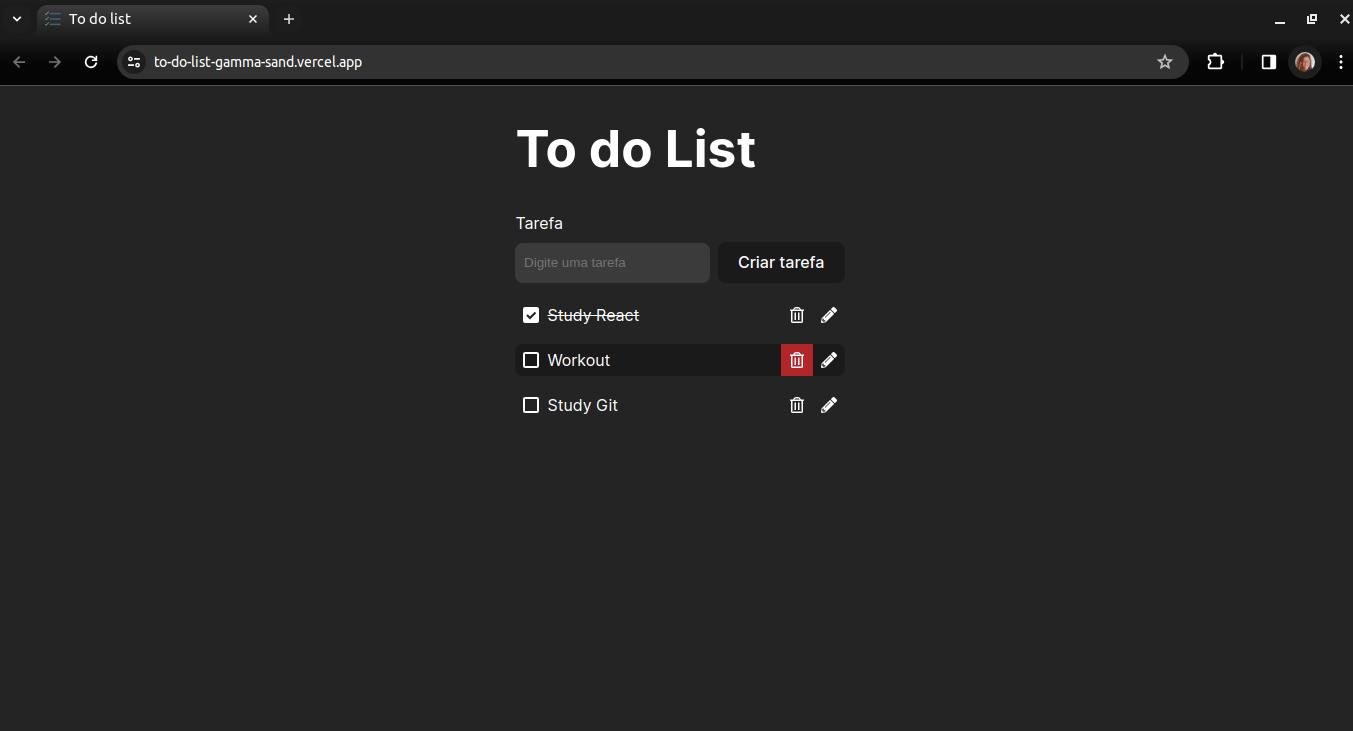
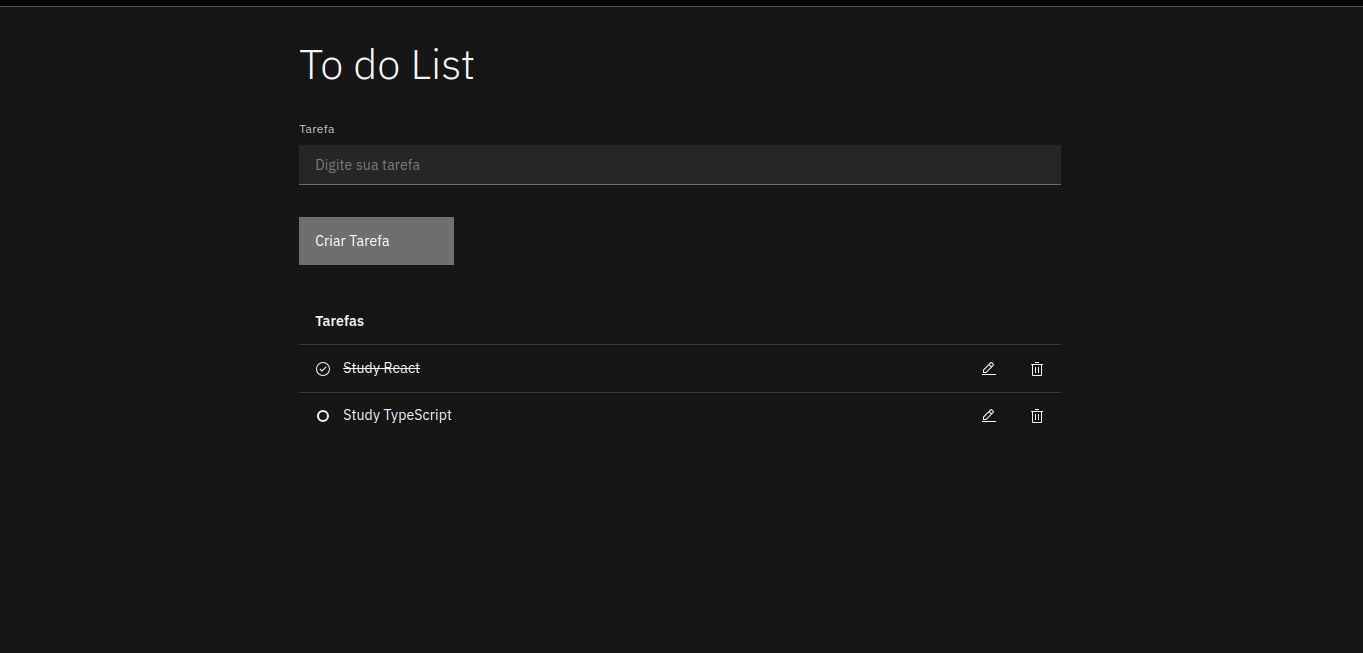
:books: Updated README

diff --git a/README.md b/README.md
@@ -19,6 +19,7 @@ Working on this project allowed me to:
   - useContext, 
   - useForm
 - Create React components
+- Implement Carbon Design System
 
 ## Skills
 * TypeScript
@@ -28,7 +29,7 @@ Working on this project allowed me to:
 
 ### Mobile
 <div align="center">
-  <img src="./docs/mobile-screenshot.jpeg" alt="Screenshot layout mobile" width="300">
+  <img src="./docs/mobile-screenshot.png" alt="Screenshot layout mobile" width="300">
 </div>
 
 ### Desktop
